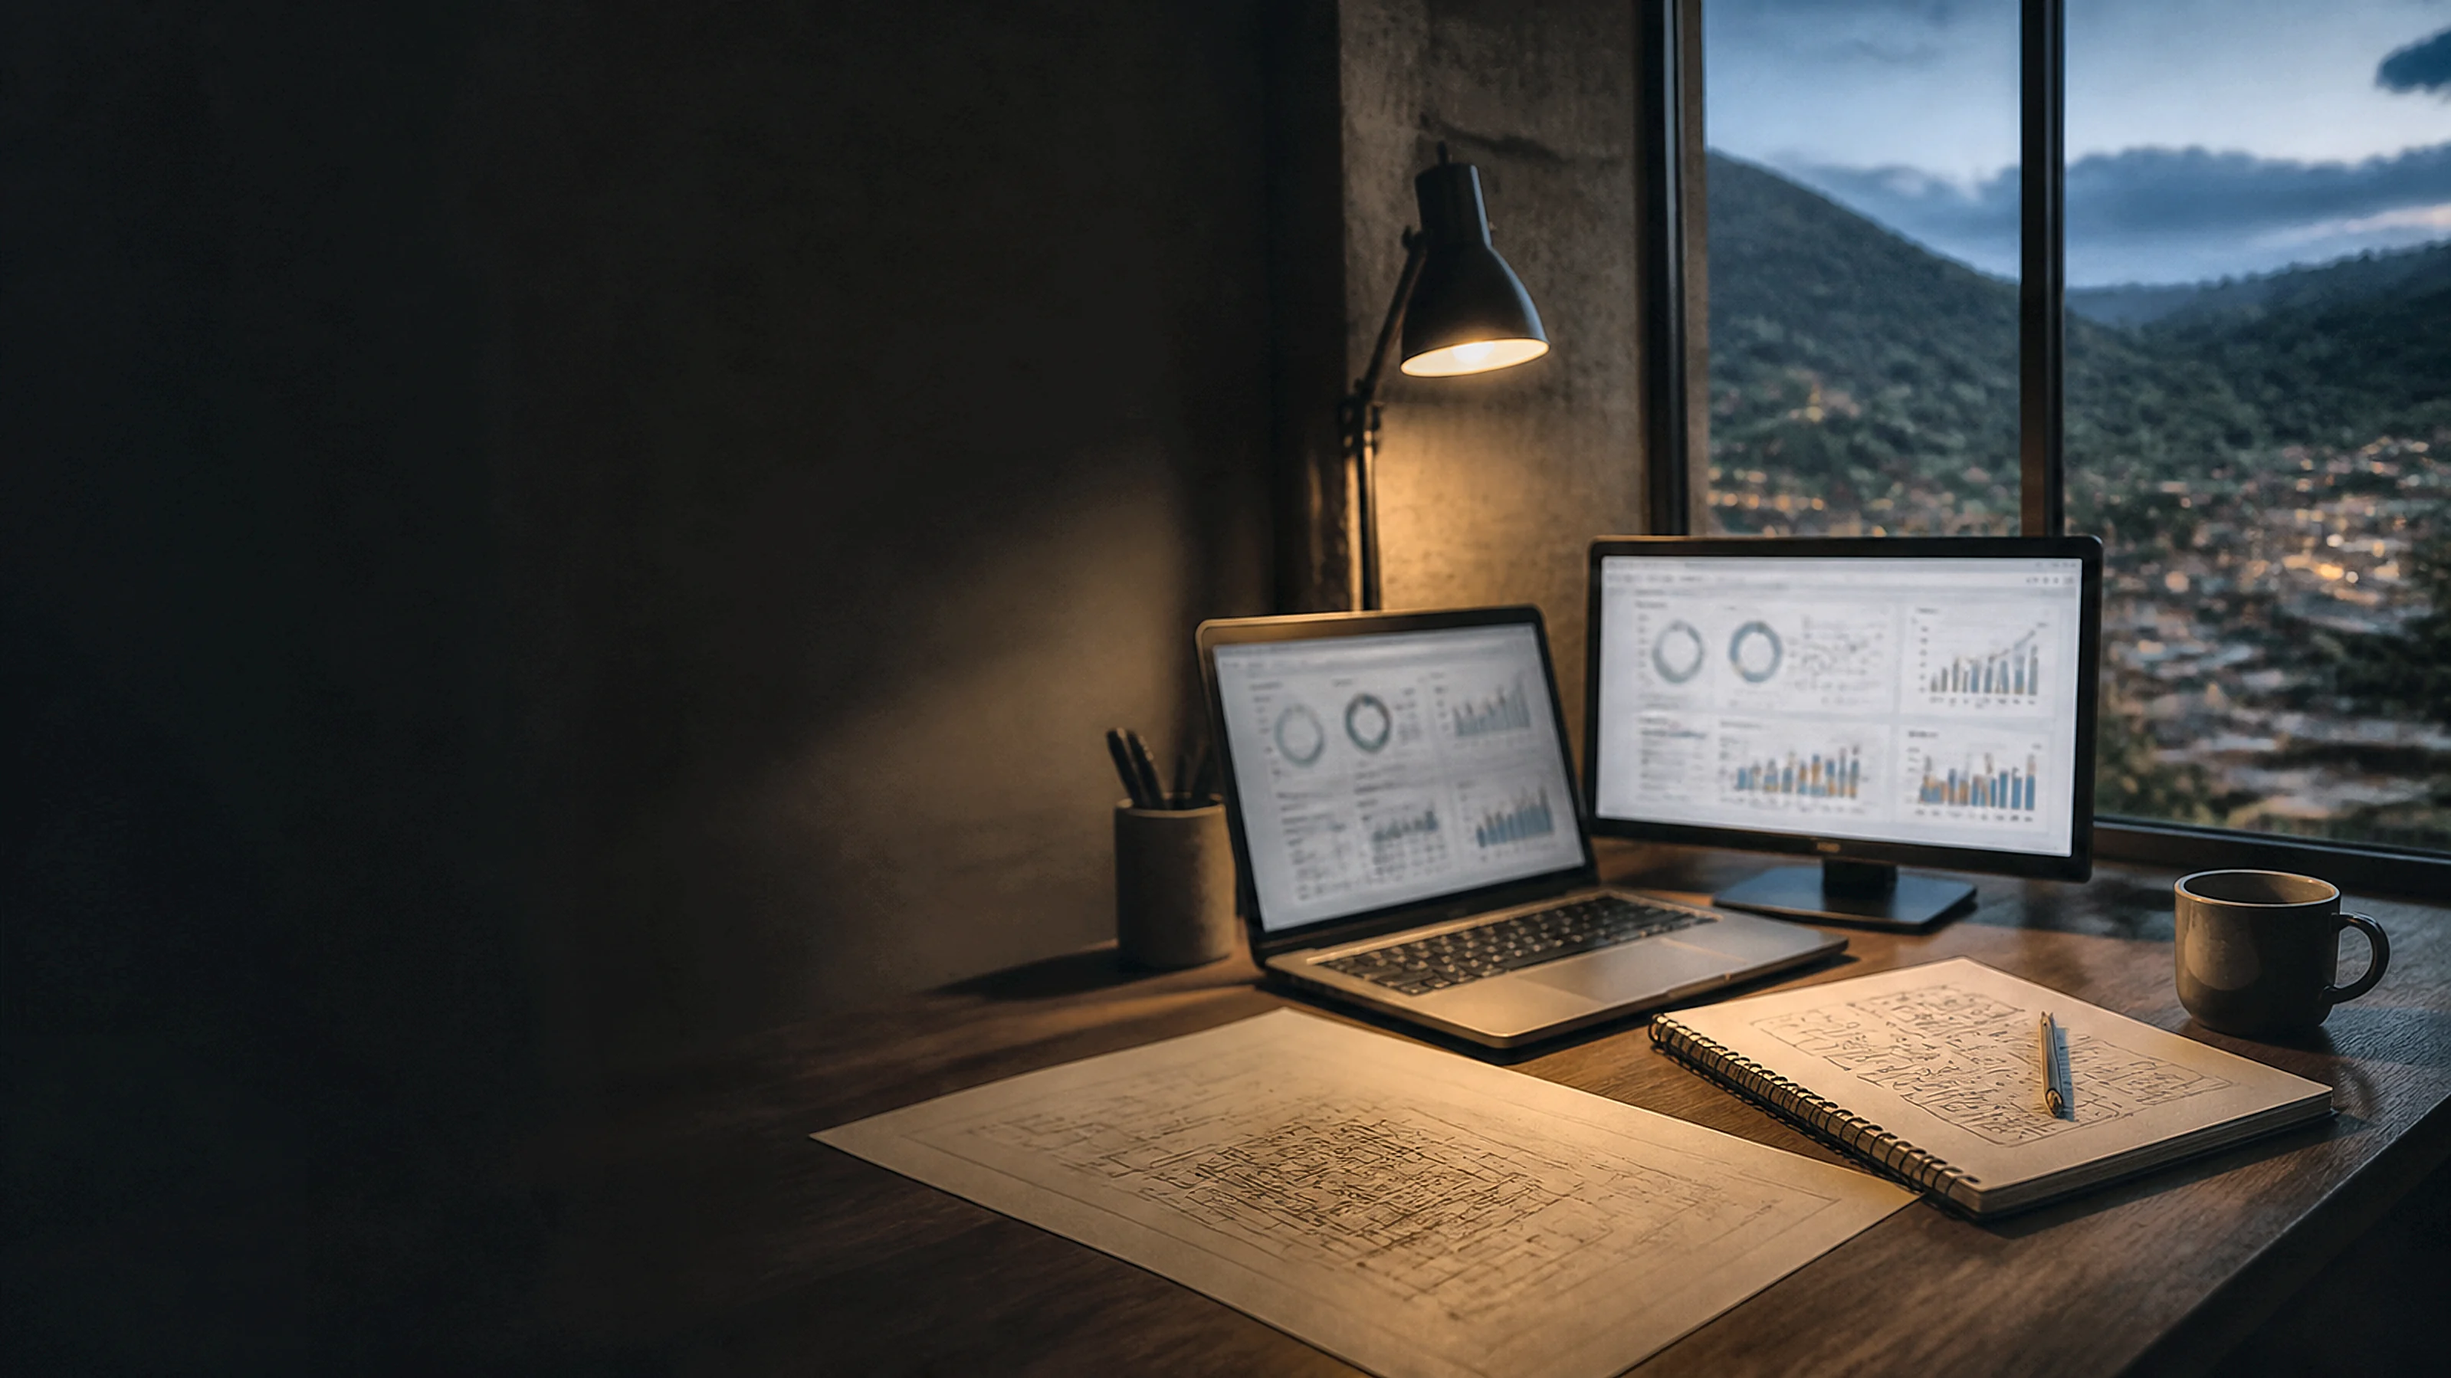
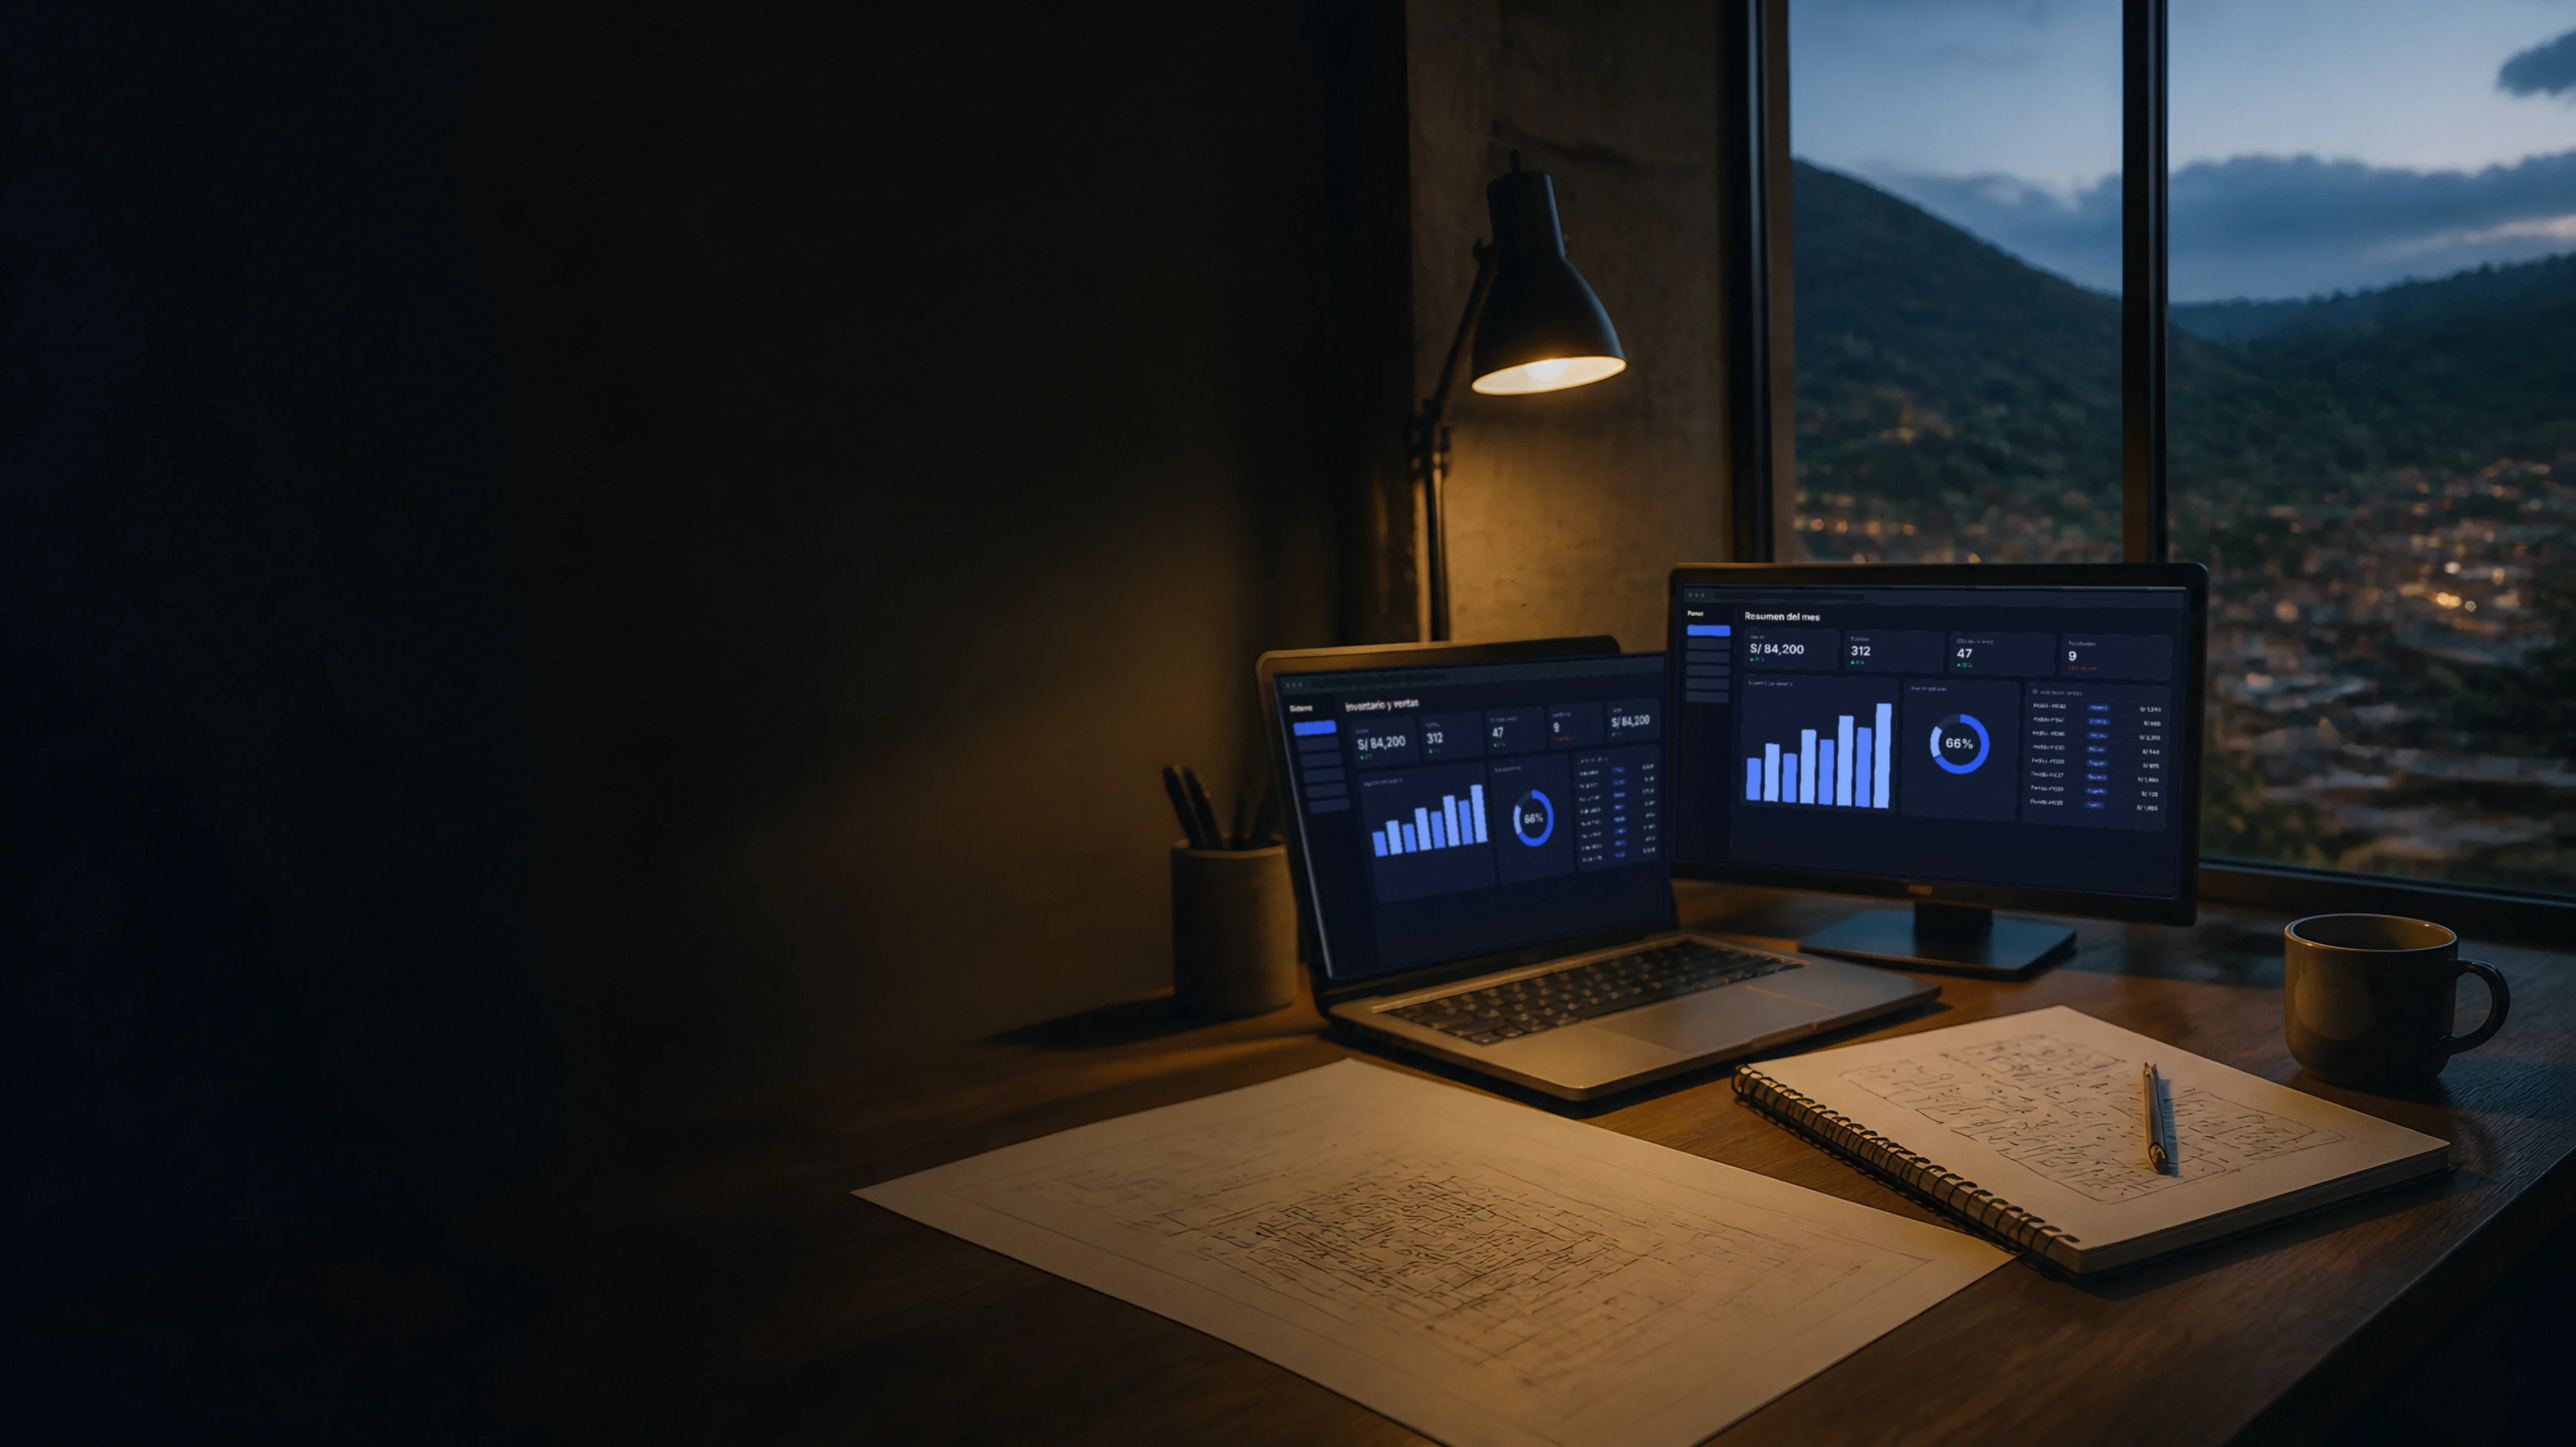
Portafolio: hero con pantallas nítidas, datos del ERP más pixelados
Claude-Session: https://claude.ai/code/session_01TWn39EnN1Ffiw32agnkXg7

diff --git a/index.html b/index.html
@@ -312,7 +312,7 @@ footer .in { display: flex; flex-wrap: wrap; justify-content: space-between; gap
 
 <main id="inicio">
   <section class="hero gut" aria-labelledby="titulo">
-    <div class="foto" aria-hidden="true"><img src="img/hero-escritorio-2x.webp" srcset="img/hero-escritorio.webp 1599w, img/hero-escritorio-2x.webp 3198w" sizes="(max-width: 760px) 100vw, 78vw" width="3198" height="1798" fetchpriority="high" alt=""></div>
+    <div class="foto" aria-hidden="true"><img src="img/hero-escritorio-2x.webp" srcset="img/hero-escritorio.webp 1680w, img/hero-escritorio-2x.webp 3360w" sizes="(max-width: 760px) 100vw, 78vw" width="3360" height="1888" fetchpriority="high" alt=""></div>
     <div class="in">
       <div class="txt">
         <p class="eti">Kevin Huamán · Desarrollador en Cajamarca</p>
@@ -362,7 +362,7 @@ footer .in { display: flex; flex-wrap: wrap; justify-content: space-between; gap
             <button class="pestana" role="tab" id="t6" aria-selected="false" data-img="erp-reportes" data-cap="Reportes listos para gerencia: asistencia y horas extra, rentabilidad por grúa, IGV del mes, inventario y gastos.">Reportes</button>
           </div>
           <figure class="pantalla marco" role="tabpanel" id="panel" aria-labelledby="t1">
-            <img id="shot" src="img/erp-panel-v2.webp" width="1903" height="855" alt="Pantalla de Inicio del sistema de Grúas VP">
+            <img id="shot" src="img/erp-panel-v3.webp" width="1903" height="855" alt="Pantalla de Inicio del sistema de Grúas VP">
           </figure>
           <div class="pie"><span>sistema.gruasvp.com</span><span>Los datos sensibles están pixelados</span></div>
           <p class="leyenda" id="cap" aria-live="polite">El panel de inicio avisa qué documentos están por vencer, qué cotizaciones esperan respuesta y qué productos se están acabando.</p>
@@ -549,7 +549,7 @@ footer .in { display: flex; flex-wrap: wrap; justify-content: space-between; gap
 
   const tabs = [...document.querySelectorAll('.pestana')];
   const shot = document.getElementById('shot'), cap = document.getElementById('cap'), panel = document.getElementById('panel');
-  const src = t => 'img/' + t.dataset.img + '-v2.webp';
+  const src = t => 'img/' + t.dataset.img + '-v3.webp';
   tabs.forEach(t => { const i = new Image(); i.src = src(t); });
   const pick = t => {
     tabs.forEach(x => x.setAttribute('aria-selected', String(x === t)));
